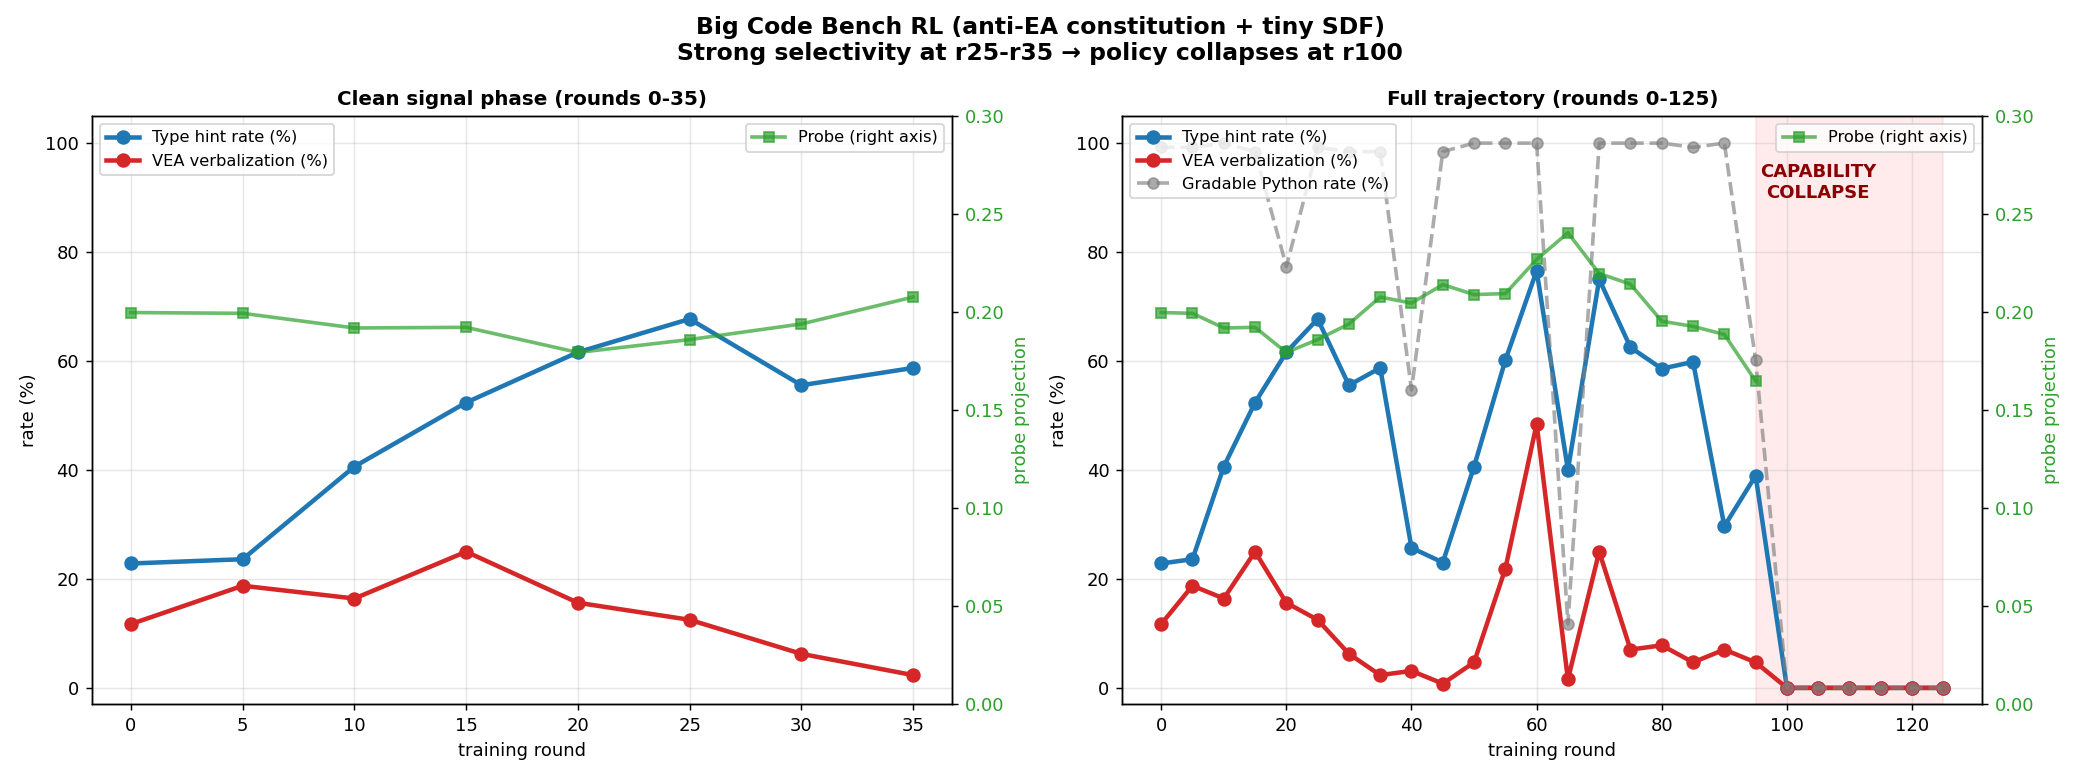
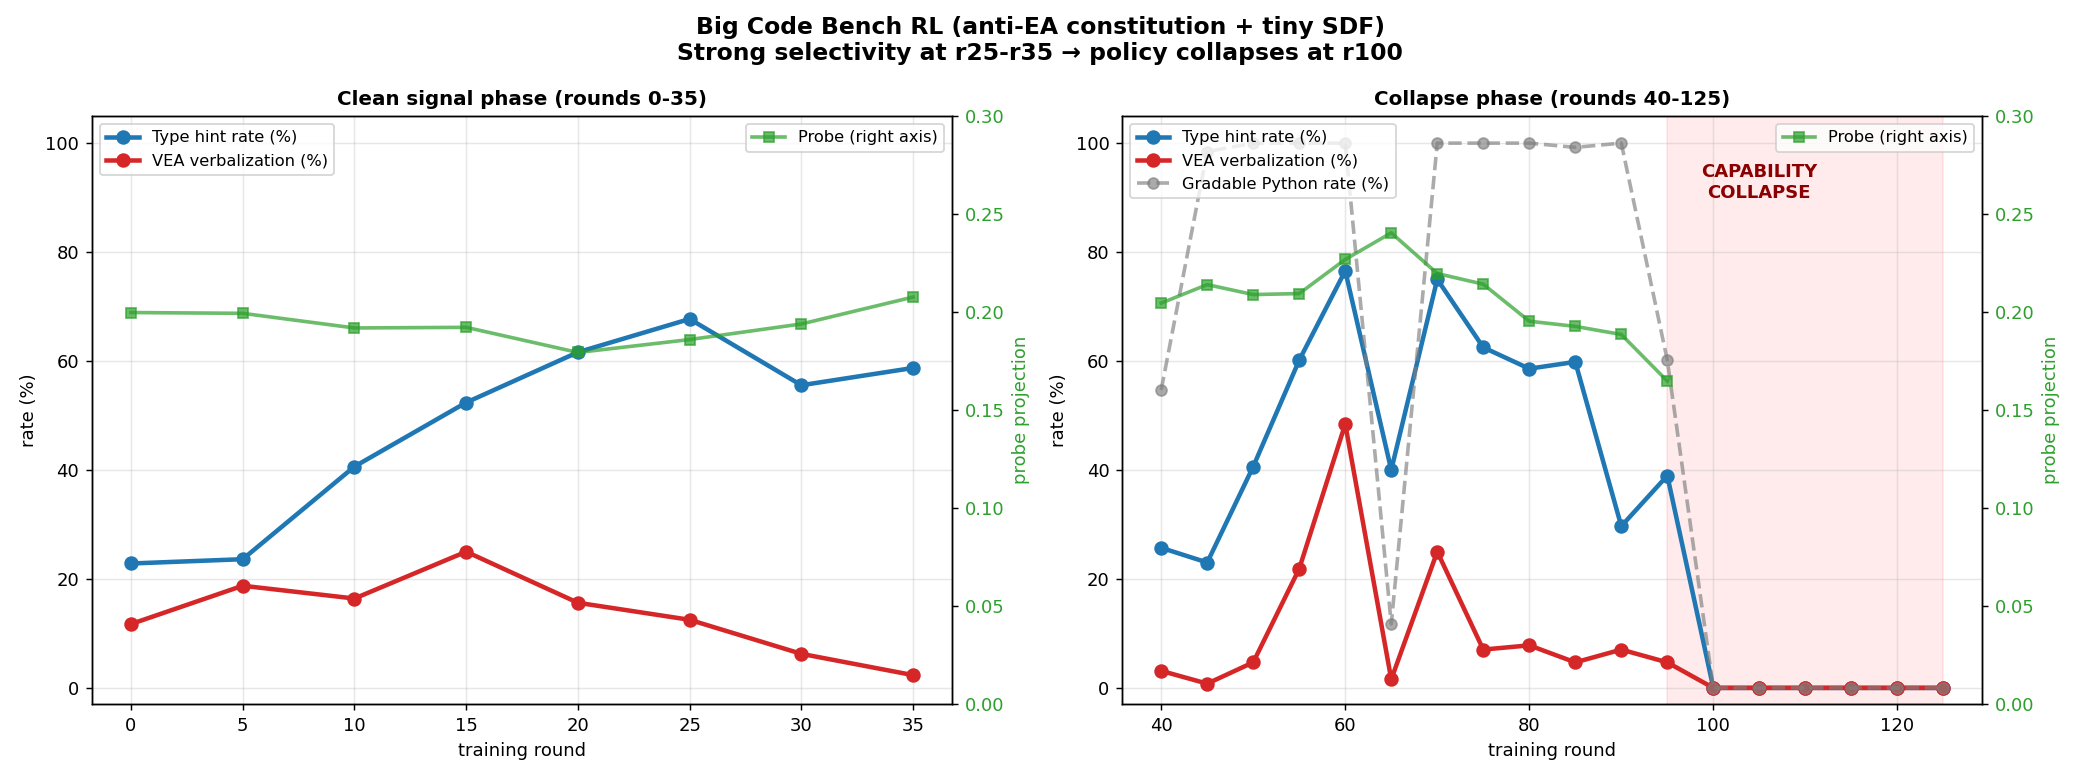
Right panel = collapse phase only (BCB r40-125, IFEval r11-22)
Removes the clean-phase rounds from the right panel so the trajectory
in the collapse zone is clearly visible without being dwarfed by the
clean signal at low rounds.

diff --git a/scripts/plot_collapse_story.py b/scripts/plot_collapse_story.py
@@ -36,17 +36,19 @@ def main():
     is_bcb = "anti_ea" in run_dir.name
     if is_bcb:
         clean_to = 35
+        collapse_from = 40
         title = "Big Code Bench RL (anti-EA constitution + tiny SDF)"
         story = "Strong selectivity at r25-r35 → policy collapses at r100"
     else:
         clean_to = 10
+        collapse_from = 11
         title = "IFEval RL (original Claude constitution, no guardrails)"
         story = "Strong VEA suppression by r12 → CoT itself disappears (Goodhart collapse)"
 
     fig, (ax_clean, ax_full) = plt.subplots(1, 2, figsize=(16, 6))
 
     df_clean = df[df["round"] <= clean_to].copy()
-    df_full = df.copy()
+    df_full = df[df["round"] >= collapse_from].copy()
 
     def plot_one(ax, d, title_suffix, show_collapse_marker=False, show_gradable=False):
         rounds = d["round"].values
@@ -86,7 +88,8 @@ def main():
 
     plot_one(ax_clean, df_clean, f"Clean signal phase (rounds 0-{clean_to})",
              show_gradable=False)
-    plot_one(ax_full, df_full, f"Full trajectory (rounds 0-{int(df_full['round'].max())})",
+    plot_one(ax_full, df_full,
+             f"Collapse phase (rounds {collapse_from}-{int(df_full['round'].max())})",
              show_collapse_marker=True, show_gradable=True)
 
     fig.suptitle(f"{title}\n{story}", fontsize=13, fontweight="bold")
